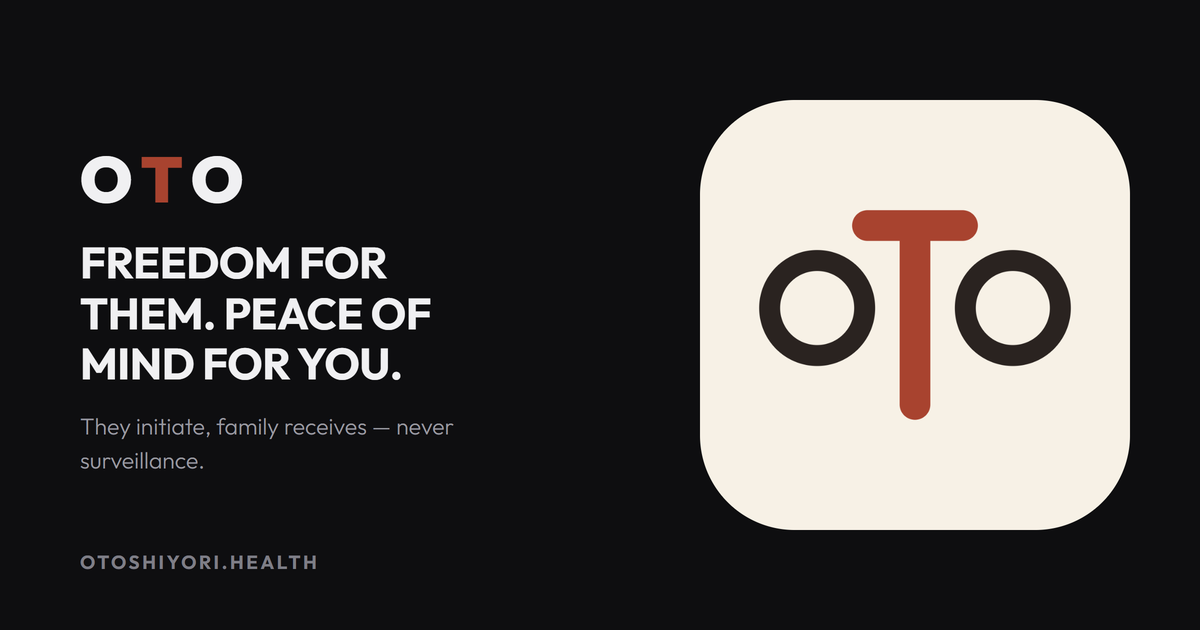
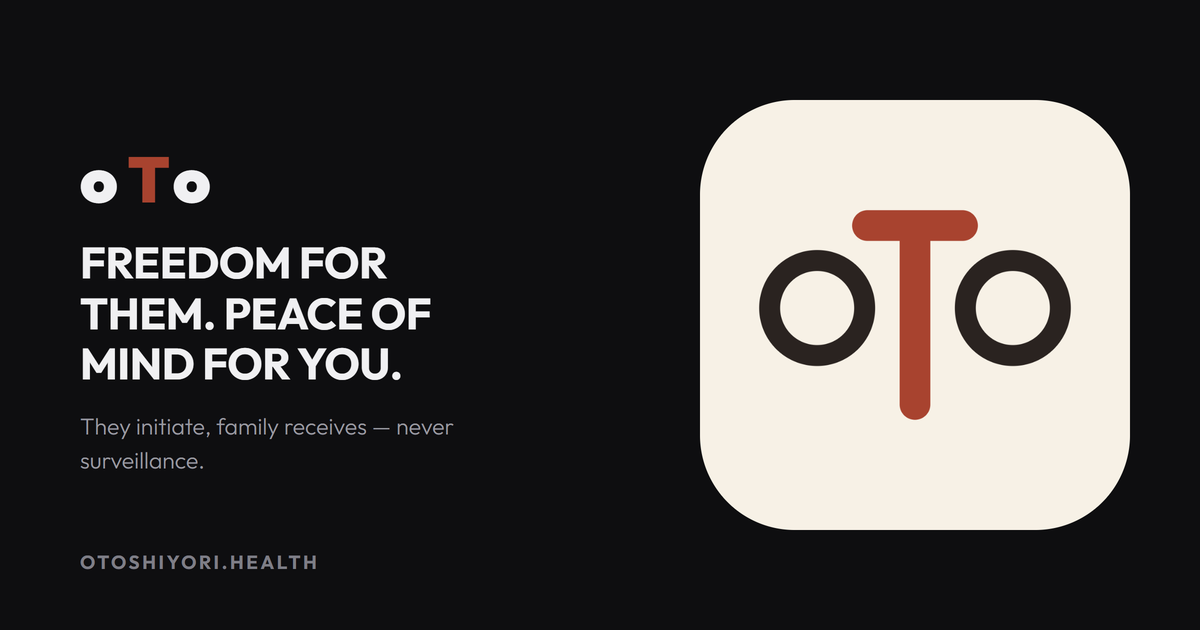
brand: casing is oTo everywhere (was OTO/Oto); og regenerated

Changed region(s): [[0.0617, 0.2413, 0.2158, 0.3317]]

diff --git a/index.html b/index.html
@@ -3,10 +3,10 @@
 <head>
 <meta charset="utf-8">
 <meta name="viewport" content="width=device-width, initial-scale=1">
-<title>Oto | Freedom for Them. Peace of Mind for You.</title>
-<meta name="description" content="Oto is one calm screen for someone you love in assisted living — they call family with a tap, tell you they're okay, see their day, and can always reach help. They initiate. Family receives. Never surveillance.">
+<title>oTo | Freedom for Them. Peace of Mind for You.</title>
+<meta name="description" content="oTo is one calm screen for someone you love in assisted living — they call family with a tap, tell you they're okay, see their day, and can always reach help. They initiate. Family receives. Never surveillance.">
 <link rel="canonical" href="https://otoshiyori.health/">
-<meta property="og:title" content="Oto — Freedom for them. Peace of mind for you.">
+<meta property="og:title" content="oTo — Freedom for them. Peace of mind for you.">
 <meta property="og:description" content="A dignity-first companion app for older adults. They call, they check in, they ask for help — on their terms.">
 <meta property="og:image" content="https://otoshiyori.health/assets/img/og.png">
 <meta property="og:url" content="https://otoshiyori.health/">
@@ -19,11 +19,11 @@
 <link href="https://fonts.googleapis.com/css2?family=Outfit:wght@300;400;500;600;700;800;900&display=swap" rel="stylesheet">
 <script type="application/ld+json">
 { "@context": "https://schema.org", "@type": "FAQPage", "mainEntity": [
-  { "@type": "Question", "name": "Is Oto a monitoring app?",
-    "acceptedAnswer": { "@type": "Answer", "text": "No — and that's the point. Oto has no GPS, no location tracking, no camera watching, and no family dashboard of their activity. Everything family sees is something they chose to send." } },
-  { "@type": "Question", "name": "When will Oto be available?",
-    "acceptedAnswer": { "@type": "Answer", "text": "Oto is in development. It will launch on Google Play; you can write to support@ubersoft.pro to hear when it's ready." } },
-  { "@type": "Question", "name": "Who is Oto for?",
+  { "@type": "Question", "name": "Is oTo a monitoring app?",
+    "acceptedAnswer": { "@type": "Answer", "text": "No — and that's the point. oTo has no GPS, no location tracking, no camera watching, and no family dashboard of their activity. Everything family sees is something they chose to send." } },
+  { "@type": "Question", "name": "When will oTo be available?",
+    "acceptedAnswer": { "@type": "Answer", "text": "oTo is in development. It will launch on Google Play; you can write to support@ubersoft.pro to hear when it's ready." } },
+  { "@type": "Question", "name": "Who is oTo for?",
     "acceptedAnswer": { "@type": "Answer", "text": "Older adults — especially in assisted living — and people with limited mobility or dexterity, plus the families who love them." } }
 ]}
 </script>
@@ -143,7 +143,7 @@
 <div class="announce">IN DEVELOPMENT · COMING TO GOOGLE PLAY · BUILT FOR SOMEONE WE LOVE</div>
 
 <nav><div class="navin">
-  <a class="brand" href="/"><svg class="bmark" viewBox="84 114 232 162" width="36" height="25" role="img" aria-label="Oto"><circle cx="130" cy="190" r="34" fill="none" stroke="#2a2320" stroke-width="15"/><circle cx="270" cy="190" r="34" fill="none" stroke="#2a2320" stroke-width="15"/><rect x="155" y="120" width="90" height="22" rx="11" fill="#a8432f"/><rect x="189" y="131" width="22" height="139" rx="11" fill="#a8432f"/></svg></a>
+  <a class="brand" href="/"><svg class="bmark" viewBox="84 114 232 162" width="36" height="25" role="img" aria-label="oTo"><circle cx="130" cy="190" r="34" fill="none" stroke="#2a2320" stroke-width="15"/><circle cx="270" cy="190" r="34" fill="none" stroke="#2a2320" stroke-width="15"/><rect x="155" y="120" width="90" height="22" rx="11" fill="#a8432f"/><rect x="189" y="131" width="22" height="139" rx="11" fill="#a8432f"/></svg></a>
   <div class="nav-r">
     <a href="#features">Features</a>
     <a href="#benefits">Why it's different</a>
@@ -153,8 +153,8 @@
 </div></nav>
 
 <header class="hero" id="top"><div class="wrap">
-  <svg class="heromark" viewBox="84 114 232 162" width="172" height="120" role="img" aria-label="Oto"><circle cx="130" cy="190" r="34" fill="none" stroke="#2a2320" stroke-width="15"/><circle cx="270" cy="190" r="34" fill="none" stroke="#2a2320" stroke-width="15"/><rect x="155" y="120" width="90" height="22" rx="11" fill="#a8432f"/><rect x="189" y="131" width="22" height="139" rx="11" fill="#a8432f"/></svg>
-  <div class="eyebrow">Oto · お年寄り</div>
+  <svg class="heromark" viewBox="84 114 232 162" width="172" height="120" role="img" aria-label="oTo"><circle cx="130" cy="190" r="34" fill="none" stroke="#2a2320" stroke-width="15"/><circle cx="270" cy="190" r="34" fill="none" stroke="#2a2320" stroke-width="15"/><rect x="155" y="120" width="90" height="22" rx="11" fill="#a8432f"/><rect x="189" y="131" width="22" height="139" rx="11" fill="#a8432f"/></svg>
+  <div class="eyebrow">oTo · お年寄り</div>
   <h1>Freedom for them. <em>Peace of mind</em> for you.</h1>
   <p class="sub">One calm screen for someone you love in assisted living. They call family with a tap, tell you they're okay, see their day, and can always reach help — on their terms, never under surveillance.</p>
   <div class="cta"><span class="chip-soon"><i></i>In development — coming to Google Play</span></div>
@@ -185,7 +185,7 @@
       <h2>Family is one tap away.</h2>
       <p>No dialer, no contact list to navigate. Tap Daniel's face and it rings Daniel. Photos, never menus — built for older eyes and less steady hands.</p>
     </div>
-    <div class="fphone"><button class="shot-link" type="button" data-full="/assets/img/shot-home.webp" aria-label="Enlarge screenshot: Oto home screen: family call faces, I'm okay button, today's reminders"><span class="shotwrap"><img class="shotimg reveal-slide" src="/assets/img/shot-home.png" srcset="/assets/img/shot-home.webp" alt="Oto home screen: family call faces, I'm okay button, today's reminders" loading="lazy" width="460" height="818"></span></button></div>
+    <div class="fphone"><button class="shot-link" type="button" data-full="/assets/img/shot-home.webp" aria-label="Enlarge screenshot: oTo home screen: family call faces, I'm okay button, today's reminders"><span class="shotwrap"><img class="shotimg reveal-slide" src="/assets/img/shot-home.png" srcset="/assets/img/shot-home.webp" alt="oTo home screen: family call faces, I'm okay button, today's reminders" loading="lazy" width="460" height="818"></span></button></div>
   </div>
 
   <div class="feature flip reveal">
@@ -220,11 +220,11 @@
   <div class="sec-head reveal">
     <span class="eyebrow">Why it's different</span>
     <h2>Dignity is the product.</h2>
-    <p>Most "senior safety" apps quietly become surveillance the family loves and the person resents. Oto is built the other way up.</p>
+    <p>Most "senior safety" apps quietly become surveillance the family loves and the person resents. oTo is built the other way up.</p>
   </div>
   <div class="bens">
     <div class="ben reveal"><svg class="ico" viewBox="0 0 24 24" fill="none" stroke="currentColor" stroke-width="1.6" stroke-linecap="round" stroke-linejoin="round"><path d="M12 19V6"/><path d="M6.5 11.5 12 6l5.5 5.5"/><circle cx="12" cy="21" r="1.4"/></svg><h3>They initiate</h3><p>Every signal the family sees is something they chose to send. The safety net stays invisible until it's truly needed.</p></div>
-    <div class="ben reveal"><svg class="ico" viewBox="0 0 24 24" fill="none" stroke="currentColor" stroke-width="1.6" stroke-linecap="round" stroke-linejoin="round"><path d="M2 12s3.5-7 10-7 10 7 10 7-3.5 7-10 7S2 12 2 12z"/><path d="M4 4l16 16"/></svg><h3>No tracking</h3><p>No GPS, no location history, no camera watching, no activity dashboard. If it would feel like being watched, it isn't in Oto.</p></div>
+    <div class="ben reveal"><svg class="ico" viewBox="0 0 24 24" fill="none" stroke="currentColor" stroke-width="1.6" stroke-linecap="round" stroke-linejoin="round"><path d="M2 12s3.5-7 10-7 10 7 10 7-3.5 7-10 7S2 12 2 12z"/><path d="M4 4l16 16"/></svg><h3>No tracking</h3><p>No GPS, no location history, no camera watching, no activity dashboard. If it would feel like being watched, it isn't in oTo.</p></div>
     <div class="ben reveal"><svg class="ico" viewBox="0 0 24 24" fill="none" stroke="currentColor" stroke-width="1.6" stroke-linecap="round" stroke-linejoin="round"><path d="M3 7V5h10v2"/><path d="M8 5v14"/><path d="M5 19h6"/><path d="M15 12v-1h6v1"/><path d="M18 11v8"/><path d="M16 19h4"/></svg><h3>Big &amp; readable</h3><p>Large type, generous targets, high contrast, and lots of air. Built for older eyes and hands that aren't as steady as they were.</p></div>
     <div class="ben reveal"><svg class="ico" viewBox="0 0 24 24" fill="none" stroke="currentColor" stroke-width="1.6" stroke-linecap="round" stroke-linejoin="round"><path d="M5 4h4l2 5-2.5 1.5a11 11 0 0 0 5 5L15 13l5 2v4a1 1 0 0 1-1 1A16 16 0 0 1 4 5a1 1 0 0 1 1-1z"/></svg><h3>Real phone calls</h3><p>Calls go through the phone's own dialer — reliable, familiar, and they work even when the app doesn't.</p></div>
     <div class="ben reveal"><svg class="ico" viewBox="0 0 24 24" fill="none" stroke="currentColor" stroke-width="1.6" stroke-linecap="round" stroke-linejoin="round"><circle cx="9" cy="8" r="3"/><path d="M3 20a6 6 0 0 1 12 0"/><circle cx="17.5" cy="10" r="2.5"/><path d="M15 20a5 5 0 0 1 6.5-4.8"/></svg><h3>Family stays close</h3><p>The family side is deliberately tiny: a gentle "they're okay today" and a call button. Peace of mind, not a monitoring console.</p></div>
@@ -237,24 +237,24 @@
     <span class="eyebrow">FAQ</span>
     <h2>Fair questions.</h2>
   </div>
-  <details class="faq"><summary>Is Oto a monitoring app?<span class="fx" aria-hidden="true"></span></summary><p>No — and that's the point. There's no GPS, no location tracking, and no dashboard of their activity. Everything family sees is something they chose to send. Oto is theirs; family receives.</p></details>
+  <details class="faq"><summary>Is oTo a monitoring app?<span class="fx" aria-hidden="true"></span></summary><p>No — and that's the point. There's no GPS, no location tracking, and no dashboard of their activity. Everything family sees is something they chose to send. oTo is theirs; family receives.</p></details>
   <details class="faq"><summary>Who sets up their schedule?<span class="fx" aria-hidden="true"></span></summary><p>They own it. Family can help — repeating things like medication get set up once, together — and anything family adds appears clearly labeled and can be removed. Nothing ever changes behind their back.</p></details>
   <details class="faq"><summary>What about real emergencies?<span class="fx" aria-hidden="true"></span></summary><p>The help button reaches a real person — family or the facility's nurse line. A true emergency-services call is there too, always behind a calm "are you sure?" confirm so an accidental tap never dials an ambulance.</p></details>
-  <details class="faq"><summary>Who is Oto for?<span class="fx" aria-hidden="true"></span></summary><p>Older adults — especially in assisted living — and people with limited mobility or dexterity, plus the families who love them. "Otoshiyori" (お年寄り) is Japanese for the elderly.</p></details>
-  <details class="faq"><summary>When can I get it?<span class="fx" aria-hidden="true"></span></summary><p>Oto is in development and will launch on Google Play. Write to <a href="mailto:support@ubersoft.pro" style="color:var(--green)">support@ubersoft.pro</a> and we'll tell you the moment it's ready.</p></details>
+  <details class="faq"><summary>Who is oTo for?<span class="fx" aria-hidden="true"></span></summary><p>Older adults — especially in assisted living — and people with limited mobility or dexterity, plus the families who love them. "Otoshiyori" (お年寄り) is Japanese for the elderly.</p></details>
+  <details class="faq"><summary>When can I get it?<span class="fx" aria-hidden="true"></span></summary><p>oTo is in development and will launch on Google Play. Write to <a href="mailto:support@ubersoft.pro" style="color:var(--green)">support@ubersoft.pro</a> and we'll tell you the moment it's ready.</p></details>
 </div></section>
 
 <section class="download"><div class="wrap">
-  <span class="eyebrow">Get Oto</span>
+  <span class="eyebrow">Get oTo</span>
   <h2>Coming to Google Play.</h2>
-  <p>Oto is being built right now — for a real grandparent, in a real assisted-living home. Want to know when it's ready?</p>
+  <p>oTo is being built right now — for a real grandparent, in a real assisted-living home. Want to know when it's ready?</p>
   <div class="cta"><a class="nav-btn" href="mailto:support@ubersoft.pro?subject=Tell%20me%20when%20Oto%20is%20ready" style="padding:14px 26px">Tell me when it's ready</a></div>
 </div></section>
 
 <footer><div class="wrap">
   <div class="foot-grid">
     <div class="foot-brand">
-      <a class="brand" href="/"><svg class="bmark" viewBox="84 114 232 162" width="36" height="25" role="img" aria-label="Oto"><circle cx="130" cy="190" r="34" fill="none" stroke="#2a2320" stroke-width="15"/><circle cx="270" cy="190" r="34" fill="none" stroke="#2a2320" stroke-width="15"/><rect x="155" y="120" width="90" height="22" rx="11" fill="#a8432f"/><rect x="189" y="131" width="22" height="139" rx="11" fill="#a8432f"/></svg></a>
+      <a class="brand" href="/"><svg class="bmark" viewBox="84 114 232 162" width="36" height="25" role="img" aria-label="oTo"><circle cx="130" cy="190" r="34" fill="none" stroke="#2a2320" stroke-width="15"/><circle cx="270" cy="190" r="34" fill="none" stroke="#2a2320" stroke-width="15"/><rect x="155" y="120" width="90" height="22" rx="11" fill="#a8432f"/><rect x="189" y="131" width="22" height="139" rx="11" fill="#a8432f"/></svg></a>
       <p>One calm screen for someone you love. They initiate, family receives — freedom for them, peace of mind for you.</p>
     </div>
     <div class="foot-col">

diff --git a/privacy.html b/privacy.html
@@ -3,8 +3,8 @@
 <head>
 <meta charset="utf-8">
 <meta name="viewport" content="width=device-width, initial-scale=1">
-<title>Privacy Policy | Oto</title>
-<meta name="description" content="Oto's privacy policy: no tracking, no location, no surveillance. Everything family sees is something they chose to send.">
+<title>Privacy Policy | oTo</title>
+<meta name="description" content="oTo's privacy policy: no tracking, no location, no surveillance. Everything family sees is something they chose to send.">
 <link rel="canonical" href="https://otoshiyori.health/privacy.html">
 <link rel="icon" href="/favicon.ico" sizes="16x16 32x32 48x48">
 <link rel="icon" type="image/png" sizes="32x32" href="/favicon-32x32.png">
@@ -74,7 +74,7 @@
 </head>
 <body>
 <nav><div class="navin">
-  <a class="brand" href="/"><svg class="bmark" viewBox="84 114 232 162" width="36" height="25" role="img" aria-label="Oto"><circle cx="130" cy="190" r="34" fill="none" stroke="#2a2320" stroke-width="15"/><circle cx="270" cy="190" r="34" fill="none" stroke="#2a2320" stroke-width="15"/><rect x="155" y="120" width="90" height="22" rx="11" fill="#a8432f"/><rect x="189" y="131" width="22" height="139" rx="11" fill="#a8432f"/></svg></a>
+  <a class="brand" href="/"><svg class="bmark" viewBox="84 114 232 162" width="36" height="25" role="img" aria-label="oTo"><circle cx="130" cy="190" r="34" fill="none" stroke="#2a2320" stroke-width="15"/><circle cx="270" cy="190" r="34" fill="none" stroke="#2a2320" stroke-width="15"/><rect x="155" y="120" width="90" height="22" rx="11" fill="#a8432f"/><rect x="189" y="131" width="22" height="139" rx="11" fill="#a8432f"/></svg></a>
   <div class="nav-r">
     <a href="/#features">Features</a>
     <a href="/#benefits">Why it's different</a>
@@ -86,14 +86,14 @@
   <div class="wrap">
     <span class="eyebrow">Legal</span>
     <h1>Privacy Policy</h1>
-    <div class="meta">Effective date: <time datetime="2026-07-16">July 16, 2026</time> · Applies to the Oto app and otoshiyori.health</div>
+    <div class="meta">Effective date: <time datetime="2026-07-16">July 16, 2026</time> · Applies to the oTo app and otoshiyori.health</div>
   </div>
 </header>
 
 <main class="wrap">
   <div class="legal">
 
-    <p class="lede">Oto (the "app") is built and published by Ubersoft ("we," "us," "our") on one rule: <b>they initiate, family receives.</b> The app does not track its user — no location, no monitoring, no surveillance. Everything a family member sees is something they chose to send.</p>
+    <p class="lede">oTo (the "app") is built and published by Ubersoft ("we," "us," "our") on one rule: <b>they initiate, family receives.</b> The app does not track its user — no location, no monitoring, no surveillance. Everything a family member sees is something they chose to send.</p>
 
     <div class="summary">
       <div class="st">In plain terms</div>
@@ -105,7 +105,7 @@
       </ul>
     </div>
 
-    <h2><span class="n">01</span> What Oto stores on the device</h2>
+    <h2><span class="n">01</span> What oTo stores on the device</h2>
     <ul class="body-list">
       <li>Their contacts (names, photos, phone numbers), their schedule, and their preferences — stored on the device.</li>
     </ul>
@@ -113,7 +113,7 @@
     <h2><span class="n">02</span> Check-ins and help requests — the one thing that leaves</h2>
     <p>Check-ins ("I'm okay today") and help requests are the only information that leaves the device. They are delivered <b>only</b> to the family members added during setup, and are kept only as recent history. Nothing is sent that the user didn't choose to send.</p>
 
-    <h2><span class="n">03</span> What Oto never collects</h2>
+    <h2><span class="n">03</span> What oTo never collects</h2>
     <ul class="body-list">
       <li>Location, movement, or GPS data of any kind.</li>
       <li>Ambient audio, video, photos, or screen activity.</li>
@@ -121,13 +121,13 @@
     </ul>
 
     <h2><span class="n">04</span> Calls</h2>
-    <p>Calls placed from Oto go through the phone's own dialer or calling apps. Oto does not record, route, or listen to calls.</p>
+    <p>Calls placed from oTo go through the phone's own dialer or calling apps. oTo does not record, route, or listen to calls.</p>
 
     <h2><span class="n">05</span> This website</h2>
     <p>otoshiyori.health uses privacy-friendly, cookieless page counting (GoatCounter) to see how many people visit. No personal profiles, no cross-site tracking, no ads.</p>
 
     <h2><span class="n">06</span> Changes to this policy</h2>
-    <p>Oto is in active development; this policy will be updated as the app takes final shape, and material changes will be noted here with a new effective date.</p>
+    <p>oTo is in active development; this policy will be updated as the app takes final shape, and material changes will be noted here with a new effective date.</p>
 
     <h2><span class="n">07</span> Contact</h2>
     <p>Questions about privacy? Reach us at <a class="link" href="mailto:support@ubersoft.pro">support@ubersoft.pro</a>.</p>
@@ -138,7 +138,7 @@
 <footer><div class="wrap">
   <div class="foot-grid">
     <div class="foot-brand">
-      <a class="brand" href="/"><svg class="bmark" viewBox="84 114 232 162" width="36" height="25" role="img" aria-label="Oto"><circle cx="130" cy="190" r="34" fill="none" stroke="#2a2320" stroke-width="15"/><circle cx="270" cy="190" r="34" fill="none" stroke="#2a2320" stroke-width="15"/><rect x="155" y="120" width="90" height="22" rx="11" fill="#a8432f"/><rect x="189" y="131" width="22" height="139" rx="11" fill="#a8432f"/></svg></a>
+      <a class="brand" href="/"><svg class="bmark" viewBox="84 114 232 162" width="36" height="25" role="img" aria-label="oTo"><circle cx="130" cy="190" r="34" fill="none" stroke="#2a2320" stroke-width="15"/><circle cx="270" cy="190" r="34" fill="none" stroke="#2a2320" stroke-width="15"/><rect x="155" y="120" width="90" height="22" rx="11" fill="#a8432f"/><rect x="189" y="131" width="22" height="139" rx="11" fill="#a8432f"/></svg></a>
       <p>One calm screen for someone you love. They initiate, family receives — freedom for them, peace of mind for you.</p>
     </div>
     <div class="foot-col">

diff --git a/download.html b/download.html
@@ -3,8 +3,8 @@
 <head>
 <meta charset="utf-8">
 <meta name="viewport" content="width=device-width, initial-scale=1">
-<title>Get Oto | Coming to Google Play</title>
-<meta name="description" content="Oto is in development and coming to Google Play. Ask us to tell you when it's ready.">
+<title>Get oTo | Coming to Google Play</title>
+<meta name="description" content="oTo is in development and coming to Google Play. Ask us to tell you when it's ready.">
 <link rel="canonical" href="https://otoshiyori.health/download.html">
 <link rel="icon" type="image/png" sizes="32x32" href="/favicon-32x32.png">
 <meta name="theme-color" content="#f7f1e6">
@@ -55,7 +55,7 @@
 </head>
 <body>
 <nav><div class="navin">
-  <a class="brand" href="/"><svg class="bmark" viewBox="84 114 232 162" width="36" height="25" role="img" aria-label="Oto"><circle cx="130" cy="190" r="34" fill="none" stroke="#2a2320" stroke-width="15"/><circle cx="270" cy="190" r="34" fill="none" stroke="#2a2320" stroke-width="15"/><rect x="155" y="120" width="90" height="22" rx="11" fill="#a8432f"/><rect x="189" y="131" width="22" height="139" rx="11" fill="#a8432f"/></svg></a>
+  <a class="brand" href="/"><svg class="bmark" viewBox="84 114 232 162" width="36" height="25" role="img" aria-label="oTo"><circle cx="130" cy="190" r="34" fill="none" stroke="#2a2320" stroke-width="15"/><circle cx="270" cy="190" r="34" fill="none" stroke="#2a2320" stroke-width="15"/><rect x="155" y="120" width="90" height="22" rx="11" fill="#a8432f"/><rect x="189" y="131" width="22" height="139" rx="11" fill="#a8432f"/></svg></a>
   <div class="nav-r">
     <a href="/#features">Features</a>
     <a href="/#benefits">Why it's different</a>
@@ -64,10 +64,10 @@
 </div></nav>
 
 <main>
-  <svg class="heromark" viewBox="84 114 232 162" width="172" height="120" role="img" aria-label="Oto"><circle cx="130" cy="190" r="34" fill="none" stroke="#2a2320" stroke-width="15"/><circle cx="270" cy="190" r="34" fill="none" stroke="#2a2320" stroke-width="15"/><rect x="155" y="120" width="90" height="22" rx="11" fill="#a8432f"/><rect x="189" y="131" width="22" height="139" rx="11" fill="#a8432f"/></svg>
-  <div class="eyebrow">Get Oto</div>
+  <svg class="heromark" viewBox="84 114 232 162" width="172" height="120" role="img" aria-label="oTo"><circle cx="130" cy="190" r="34" fill="none" stroke="#2a2320" stroke-width="15"/><circle cx="270" cy="190" r="34" fill="none" stroke="#2a2320" stroke-width="15"/><rect x="155" y="120" width="90" height="22" rx="11" fill="#a8432f"/><rect x="189" y="131" width="22" height="139" rx="11" fill="#a8432f"/></svg>
+  <div class="eyebrow">Get oTo</div>
   <h1>Coming to Google Play.</h1>
-  <p class="sub">Oto is in development — being built for a real grandparent in a real assisted-living home, and for everyone like them. When it's ready, it will be here.</p>
+  <p class="sub">oTo is in development — being built for a real grandparent in a real assisted-living home, and for everyone like them. When it's ready, it will be here.</p>
   <div><span class="chip-soon"><i></i>In development</span></div>
   <div><a class="btn" href="mailto:support@ubersoft.pro?subject=Tell%20me%20when%20Oto%20is%20ready">Tell me when it's ready</a></div>
 </main>
@@ -75,7 +75,7 @@
 <footer><div class="wrap">
   <div class="foot-grid">
     <div class="foot-brand">
-      <a class="brand" href="/"><svg class="bmark" viewBox="84 114 232 162" width="36" height="25" role="img" aria-label="Oto"><circle cx="130" cy="190" r="34" fill="none" stroke="#2a2320" stroke-width="15"/><circle cx="270" cy="190" r="34" fill="none" stroke="#2a2320" stroke-width="15"/><rect x="155" y="120" width="90" height="22" rx="11" fill="#a8432f"/><rect x="189" y="131" width="22" height="139" rx="11" fill="#a8432f"/></svg></a>
+      <a class="brand" href="/"><svg class="bmark" viewBox="84 114 232 162" width="36" height="25" role="img" aria-label="oTo"><circle cx="130" cy="190" r="34" fill="none" stroke="#2a2320" stroke-width="15"/><circle cx="270" cy="190" r="34" fill="none" stroke="#2a2320" stroke-width="15"/><rect x="155" y="120" width="90" height="22" rx="11" fill="#a8432f"/><rect x="189" y="131" width="22" height="139" rx="11" fill="#a8432f"/></svg></a>
       <p>One calm screen for someone you love. They initiate, family receives — freedom for them, peace of mind for you.</p>
     </div>
     <div class="foot-col">

diff --git a/404.html b/404.html
@@ -3,7 +3,7 @@
 <head>
 <meta charset="utf-8">
 <meta name="viewport" content="width=device-width, initial-scale=1">
-<title>404 | Oto</title>
+<title>404 | oTo</title>
 <meta name="robots" content="noindex">
 <link rel="icon" href="/favicon.ico" sizes="any">
 <link rel="icon" type="image/png" sizes="32x32" href="/favicon-32x32.png">
@@ -39,7 +39,7 @@
 </head>
 <body>
   <main>
-    <div class="eyebrow" style="display:flex;align-items:center;justify-content:center;gap:8px"><svg class="" viewBox="84 114 232 162" width="30" height="21" role="img" aria-label="Oto"><circle cx="130" cy="190" r="34" fill="none" stroke="#2a2320" stroke-width="15"/><circle cx="270" cy="190" r="34" fill="none" stroke="#2a2320" stroke-width="15"/><rect x="155" y="120" width="90" height="22" rx="11" fill="#a8432f"/><rect x="189" y="131" width="22" height="139" rx="11" fill="#a8432f"/></svg></div>
+    <div class="eyebrow" style="display:flex;align-items:center;justify-content:center;gap:8px"><svg class="" viewBox="84 114 232 162" width="30" height="21" role="img" aria-label="oTo"><circle cx="130" cy="190" r="34" fill="none" stroke="#2a2320" stroke-width="15"/><circle cx="270" cy="190" r="34" fill="none" stroke="#2a2320" stroke-width="15"/><rect x="155" y="120" width="90" height="22" rx="11" fill="#a8432f"/><rect x="189" y="131" width="22" height="139" rx="11" fill="#a8432f"/></svg></div>
     <div class="n">404</div>
     <h1>This page isn't on the schedule.</h1>
     <p>It may have moved, or it never existed. Everything else is right where you left it.</p>
